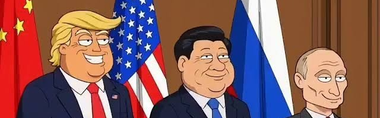
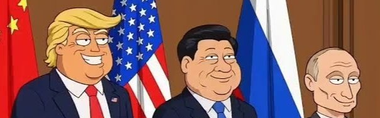
5+5 mediums (2 rows x 5, map 148px); summit + ICJ portraits swapped to Bos's new cartoons

diff --git a/main.py b/main.py
@@ -3,7 +3,7 @@
 
 A pure-stdlib program that draws one 1024x1024 newspaper front page
 summing up the world news of Thursday 19 November 2026: 36 stories
-(3 illustrated leads, 12 pictured medium stories, 21 more in brief),
+(3 illustrated leads, 10 pictured medium stories, 23 more in brief),
 a world map with numbered pins, a four-number stat strip, a DATE CHECK
 box and a source footer. No network, no Pillow, deterministic output.
 
@@ -905,33 +905,10 @@ def icon_palm(cv, x, y, s):
         cv.hline(x + 6, x + s - 6, y + wy, BLUE, 2)
 
 
-def icon_gavel(cv, x, y, s):
-    cv.fill_rect(x, y, s, s, _tint(GOLD))
-    cv.fill_rect(x + 11, y + 13, 40, 13, (96, 64, 32))
-    cv.fill_rect(x + 11, y + 13, 40, 3, (120, 84, 44))
-    cv.line(x + 31, y + 26, x + 24, y + 48, (96, 64, 32), 5)
-    cv.fill_rect(x + 14, y + 48, 34, 6, (96, 64, 32))
-
-
-def icon_baseball(cv, x, y, s):
-    cv.fill_rect(x, y, s, s, _tint(TEAL))
-    cx, cy = x + s // 2, y + s // 2
-    cv.fill_circle(cx, cy, 21, MGREY)
-    cv.fill_circle(cx, cy, 20, WHITE)
-    for pts in ([(cx - 15, cy - 13), (cx - 11, cy - 6), (cx - 10, cy),
-                 (cx - 11, cy + 6), (cx - 15, cy + 13)],
-                [(cx + 15, cy - 13), (cx + 11, cy - 6), (cx + 10, cy),
-                 (cx + 11, cy + 6), (cx + 15, cy + 13)]):
-        for i in range(len(pts) - 1):
-            cv.line(pts[i][0], pts[i][1], pts[i + 1][0], pts[i + 1][1],
-                    RED2, 2)
-
-
 ICONS = {"bridge": icon_bridge, "capitol": icon_capitol, "truck": icon_truck,
          "ships": icon_ships, "ice": icon_ice, "atom": icon_atom,
          "shield": icon_shield, "parliament": icon_parliament,
-         "boat": icon_boat, "palm": icon_palm, "gavel": icon_gavel,
-         "baseball": icon_baseball}
+         "boat": icon_boat, "palm": icon_palm}
 
 # ================================================================ map
 CONTINENTS = [
@@ -1038,31 +1015,25 @@ LEADS = [
 
 MEDIUMS = [
     {"icon": "bridge", "region": "EUROPE", "place": "KERCH",
-     "title": "Ukraine hits Kerch Bridge a third time in four days; "
-              "Putin vows a harsher reply"},
+     "title": "Ukraine hits Kerch Bridge a third time"},
     {"icon": "capitol", "region": "AMERICAS", "place": "WASHINGTON",
      "title": "Senate rejects Iran war-powers bid, 51–48"},
     {"icon": "truck", "region": "MIDDLE EAST", "place": "GAZA",
-     "title": "Aid groups grade Gaza peace plan 4 out of 26; only 49 "
-              "trucks a day vs 600"},
+     "title": "Gaza aid grade 4 of 26; 49 trucks a day"},
     {"icon": "ships", "region": "EUROPE", "place": "LONDON · OSLO",
-     "title": "UK and Norway pledge £100m+ for two Ukrainian naval craft"},
+     "title": "UK, Norway pledge £100m+ for naval craft"},
     {"icon": "ice", "region": "EUROPE", "place": "COPENHAGEN",
-     "title": "Denmark backs US–Greenland security deal, 109–0"},
+     "title": "Denmark backs US–Greenland deal, 109–0"},
     {"icon": "atom", "region": "ASIA-PACIFIC", "place": "VIENNA",
      "title": "IAEA: North Korea expanded uranium enrichment"},
     {"icon": "shield", "region": "AMERICAS", "place": "PORT-AU-PRINCE",
-     "title": "Haitian police kill 34 gang members in raid to retake corridor"},
+     "title": "Haiti police kill 34 gang members in raid"},
     {"icon": "parliament", "region": "ASIA-PACIFIC", "place": "JAKARTA",
-     "title": "Indonesia's parliament passes asset-forfeiture bill"},
+     "title": "Indonesia passes asset-forfeiture bill"},
     {"icon": "boat", "region": "AFRICA", "place": "DAKAR",
-     "title": "Migrant boat capsizes off Senegal; dozens missing"},
+     "title": "Boat capsizes off Senegal; dozens missing"},
     {"icon": "palm", "region": "OCEANIA", "place": "SUVA",
      "title": "Fiji declares national disaster over El Niño"},
-    {"icon": "gavel", "region": "AFRICA", "place": "DODOMA",
-     "title": "Lissu convicted of sedition in Tanzania"},
-    {"icon": "baseball", "region": "AMERICAS", "place": "WASHINGTON",
-     "title": "Trump pardons Pete Rose posthumously"},
 ]
 
 ALSO = [
@@ -1071,10 +1042,12 @@ ALSO = [
     "Cyclone Akvan nears Odisha; 50,000 moved",
     "South Florida floods after slow storm",
     "589m children lived in conflict zones",
+    "Tanzania: Lissu convicted of sedition",
     "Ethiopia–Eritrea troops mass near Badme",
     "Iraq orders Kataib Hezbollah out",
     "Pakistan: 22 militants killed in raids",
     "Seoul: Half a million sit entrance exam",
+    "Trump pardons Pete Rose posthumously",
     "US in new Supreme Court bid over TPS",
     "US jobless claims unexpectedly rise",
     "Australia jobless rate highest since 2021",
@@ -1159,35 +1132,35 @@ def render():
         lx += lw + 10
     cv.hline(26, 998, 470, NAVY, 2)
 
-    # ---- medium grid: 4 x 3, last row 2 ----
+    # ---- medium grid: 5 x 2 ----
     for idx, med in enumerate(MEDIUMS):
-        col, row = idx % 4, idx // 4
-        mx = 26 + col * 245
-        my = 480 + row * 88
-        cv.fill_rect(mx, my, 237, 80, PAPER)
-        cv.rect(mx, my, 237, 80, MGREY)
-        ICONS[med["icon"]](cv, mx + 8, my + 11, 62)
-        tx = mx + 78
-        cv.draw_text(tx, my + 20, med["place"], bold, 8.5,
+        col, row = idx % 5, idx // 5
+        mx = 26 + col * 196
+        my = 480 + row * 108
+        cv.fill_rect(mx, my, 186, 100, PAPER)
+        cv.rect(mx, my, 186, 100, MGREY)
+        ICONS[med["icon"]](cv, mx + 6, my + 8, 62)
+        tx = mx + 74
+        cv.draw_text(tx, my + 18, med["place"], bold, 8.5,
                      REGION_COL[med["region"]])
-        cv.draw_text(tx, my + 32, med["region"], bold, 8.5, GREY)
-        y = my + 48
-        for ln in cv.wrap(bold, med["title"], 11, 151):
+        cv.draw_text(tx, my + 30, med["region"], bold, 8.5, GREY)
+        y = my + 46
+        for ln in cv.wrap(bold, med["title"], 11, 106):
             cv.draw_text(tx, y, ln, bold, 11, INK)
             y += 14
 
     # ---- map + also list ----
-    cv.draw_text(26, 746, "WHERE IT HAPPENED", bold, 13, NAVY)
-    cv.draw_text(512, 746, "ALSO ON THURSDAY 19 NOVEMBER", bold, 13, NAVY)
-    cv.hline(26, 998, 752, NAVY, 1)
-    draw_map(cv, 26, 760, 470, 118, bold)
-    cv.rect(26, 760, 470, 118, MGREY)
+    cv.draw_text(26, 716, "WHERE IT HAPPENED", bold, 13, NAVY)
+    cv.draw_text(512, 716, "ALSO ON THURSDAY 19 NOVEMBER", bold, 13, NAVY)
+    cv.hline(26, 998, 722, NAVY, 1)
+    draw_map(cv, 26, 730, 470, 148, bold)
+    cv.rect(26, 730, 470, 148, MGREY)
     cv.draw_text(26, 886, MAP_KEY_1, reg, 8.5, GREY)
     cv.draw_text(26, 898, MAP_KEY_2, reg, 8.5, GREY)
     for j, item in enumerate(ALSO):
         col, k = (0, j) if j < 12 else (1, j - 12)
         ax = 512 + col * 246
-        ay = 774 + k * 13
+        ay = 744 + k * 13
         cv.draw_text(ax, ay, "%d." % (j + 1), bold, 10, RED)
         cv.draw_text(ax + 20, ay, item, reg, 10, INK)
 
